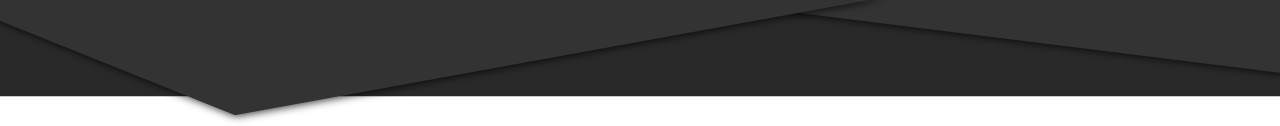
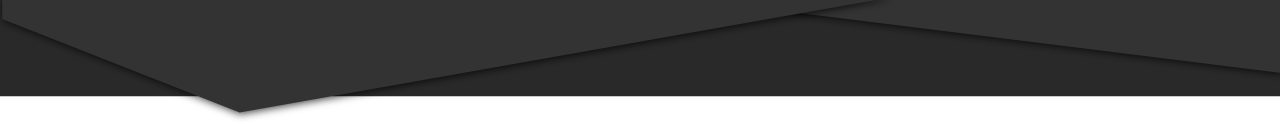
navbar and internship page adjustments

Changed region(s): [[0.25, 0.75, 1.0, 0.7984], [0.0, 0.75, 0.1875, 0.9435]]

diff --git a/app/assets/stylesheets/stylesheet_desktop.css.scss b/app/assets/stylesheets/stylesheet_desktop.css.scss
@@ -212,7 +212,7 @@ ul.nav li.dropdown:hover ul.dropdown-menu{
   top: 175px;
   font-weight: 300;
   margin-left: 883px;
-  margin-top: 70px;
+  margin-top: 85px;
   -moz-box-shadow:      3px 3px 3px 0px rgba(0, 0, 0, 0.3);
   -webkit-box-shadow:   3px 3px 3px 0px rgba(0, 0, 0, 0.3);
   box-shadow:           3px 3px 3px 0px rgba(0, 0, 0, 0.3);

diff --git a/app/assets/stylesheets/internships.css.scss b/app/assets/stylesheets/internships.css.scss
@@ -18,6 +18,8 @@
   padding-top: 5px;
 }
 
+.content-intern2 {
+}
 
 #row-intern {
 margin-top:0px;

diff --git a/db/schema.rb b/db/schema.rb
@@ -147,7 +147,6 @@ ActiveRecord::Schema.define(:version => 20130630121738) do
     t.string   "supervisor_name"
     t.string   "supervisor_email"
     t.string   "comment"
-    t.integer  "reading_prof_id",                          :limit => 255
     t.date     "certificate_to_prof"
     t.date     "certificate_signed_by_prof"
     t.date     "certificate_signed_by_internship_officer"
@@ -158,8 +157,9 @@ ActiveRecord::Schema.define(:version => 20130630121738) do
     t.integer  "contract_state_id"
     t.integer  "report_state_id"
     t.integer  "certificate_state_id"
-    t.datetime "created_at",                                              :null => false
-    t.datetime "updated_at",                                              :null => false
+    t.datetime "created_at",                               :null => false
+    t.datetime "updated_at",                               :null => false
+    t.integer  "reading_prof_id"
   end
 
   create_table "internship_searches", :force => true do |t|
